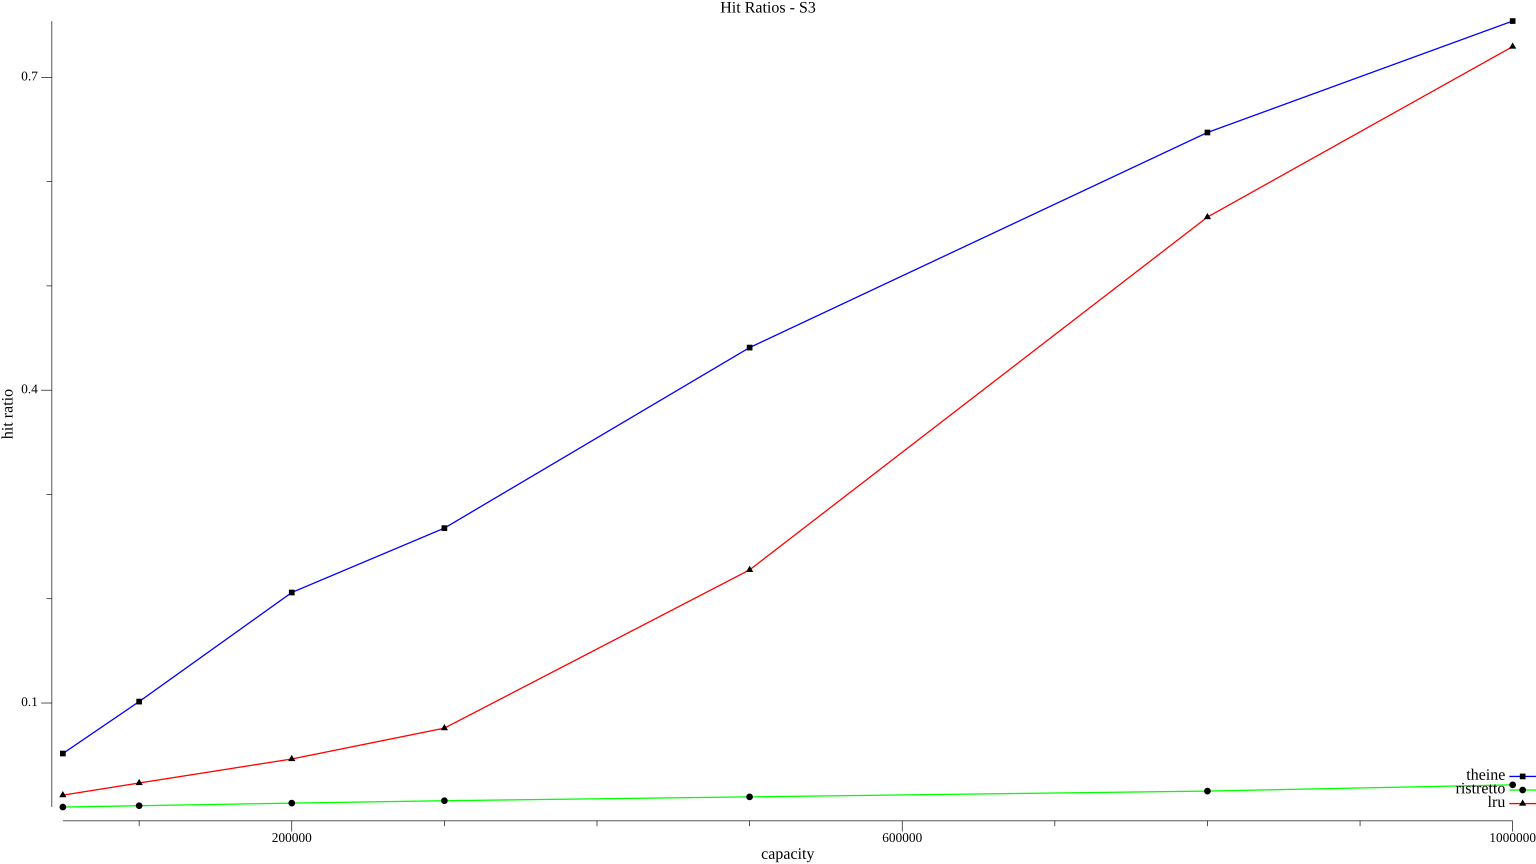
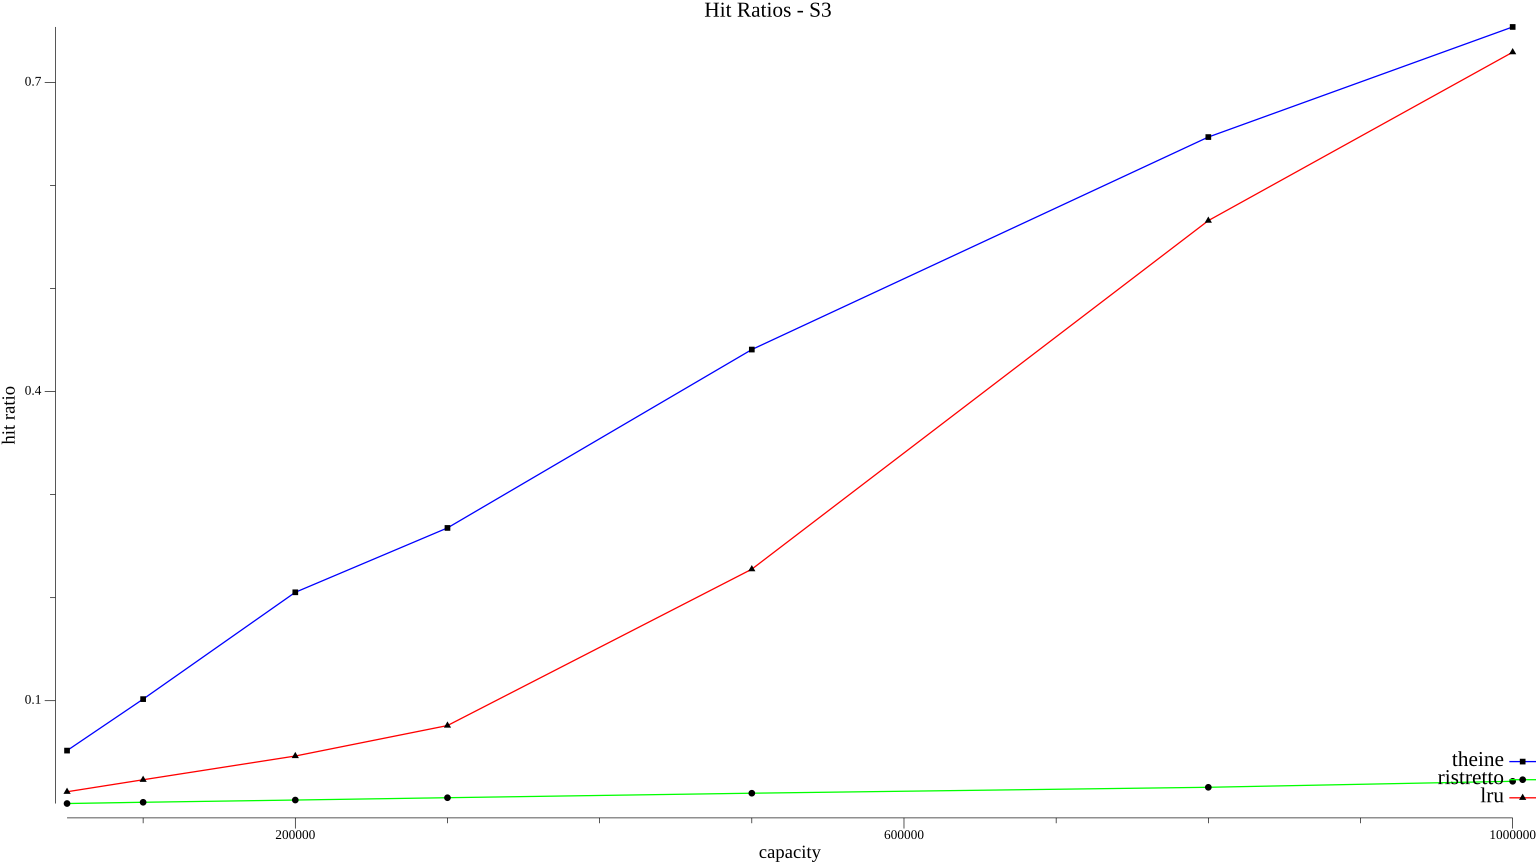
update benchmark

diff --git a/benchmarks/main.go b/benchmarks/main.go
@@ -16,6 +16,7 @@ import (
 	"time"
 
 	"github.com/Yiling-J/theine-go/benchmarks/clients"
+	"golang.org/x/image/font"
 	"gonum.org/v1/plot"
 	"gonum.org/v1/plot/plotter"
 	"gonum.org/v1/plot/vg"
@@ -242,6 +243,12 @@ func benchAndPlot(title string, caps []int, gen func(keyChan chan key), parallel
 	p.Title.Text = fmt.Sprintf("Hit Ratios - %s", title)
 	p.X.Label.Text = "capacity"
 	p.Y.Label.Text = "hit ratio"
+	p.Legend.TextStyle.Font.Size = vg.Points(16)
+	p.Legend.TextStyle.Font.Style = font.StyleOblique
+	p.Title.TextStyle.Font.Size = vg.Points(16)
+	p.Title.TextStyle.Font.Style = font.StyleOblique
+	p.X.Label.TextStyle.Font.Size = vg.Points(14)
+	p.Y.Label.TextStyle.Font.Size = vg.Points(14)
 
 	tdata := plotter.XYs{}
 	rdata := plotter.XYs{}
@@ -299,7 +306,7 @@ func main() {
 	// infinite(&clients.Theine[int, int]{}, 100000, 12)
 	// infinite(&clients.Ristretto[int, int]{}, 100000, 12)
 
-	parallel := true
+	parallel := false
 	benchAndPlot("Zipf", []int{100, 200, 500, 1000, 2000, 5000, 10000, 20000}, zipfGen, parallel)
 	benchAndPlot("DS1", []int{1000000, 2000000, 3000000, 5000000, 6000000, 8000000}, ds1Gen, parallel)
 	benchAndPlot("S3", []int{50000, 100000, 200000, 300000, 500000, 800000, 1000000}, s3Gen, parallel)
